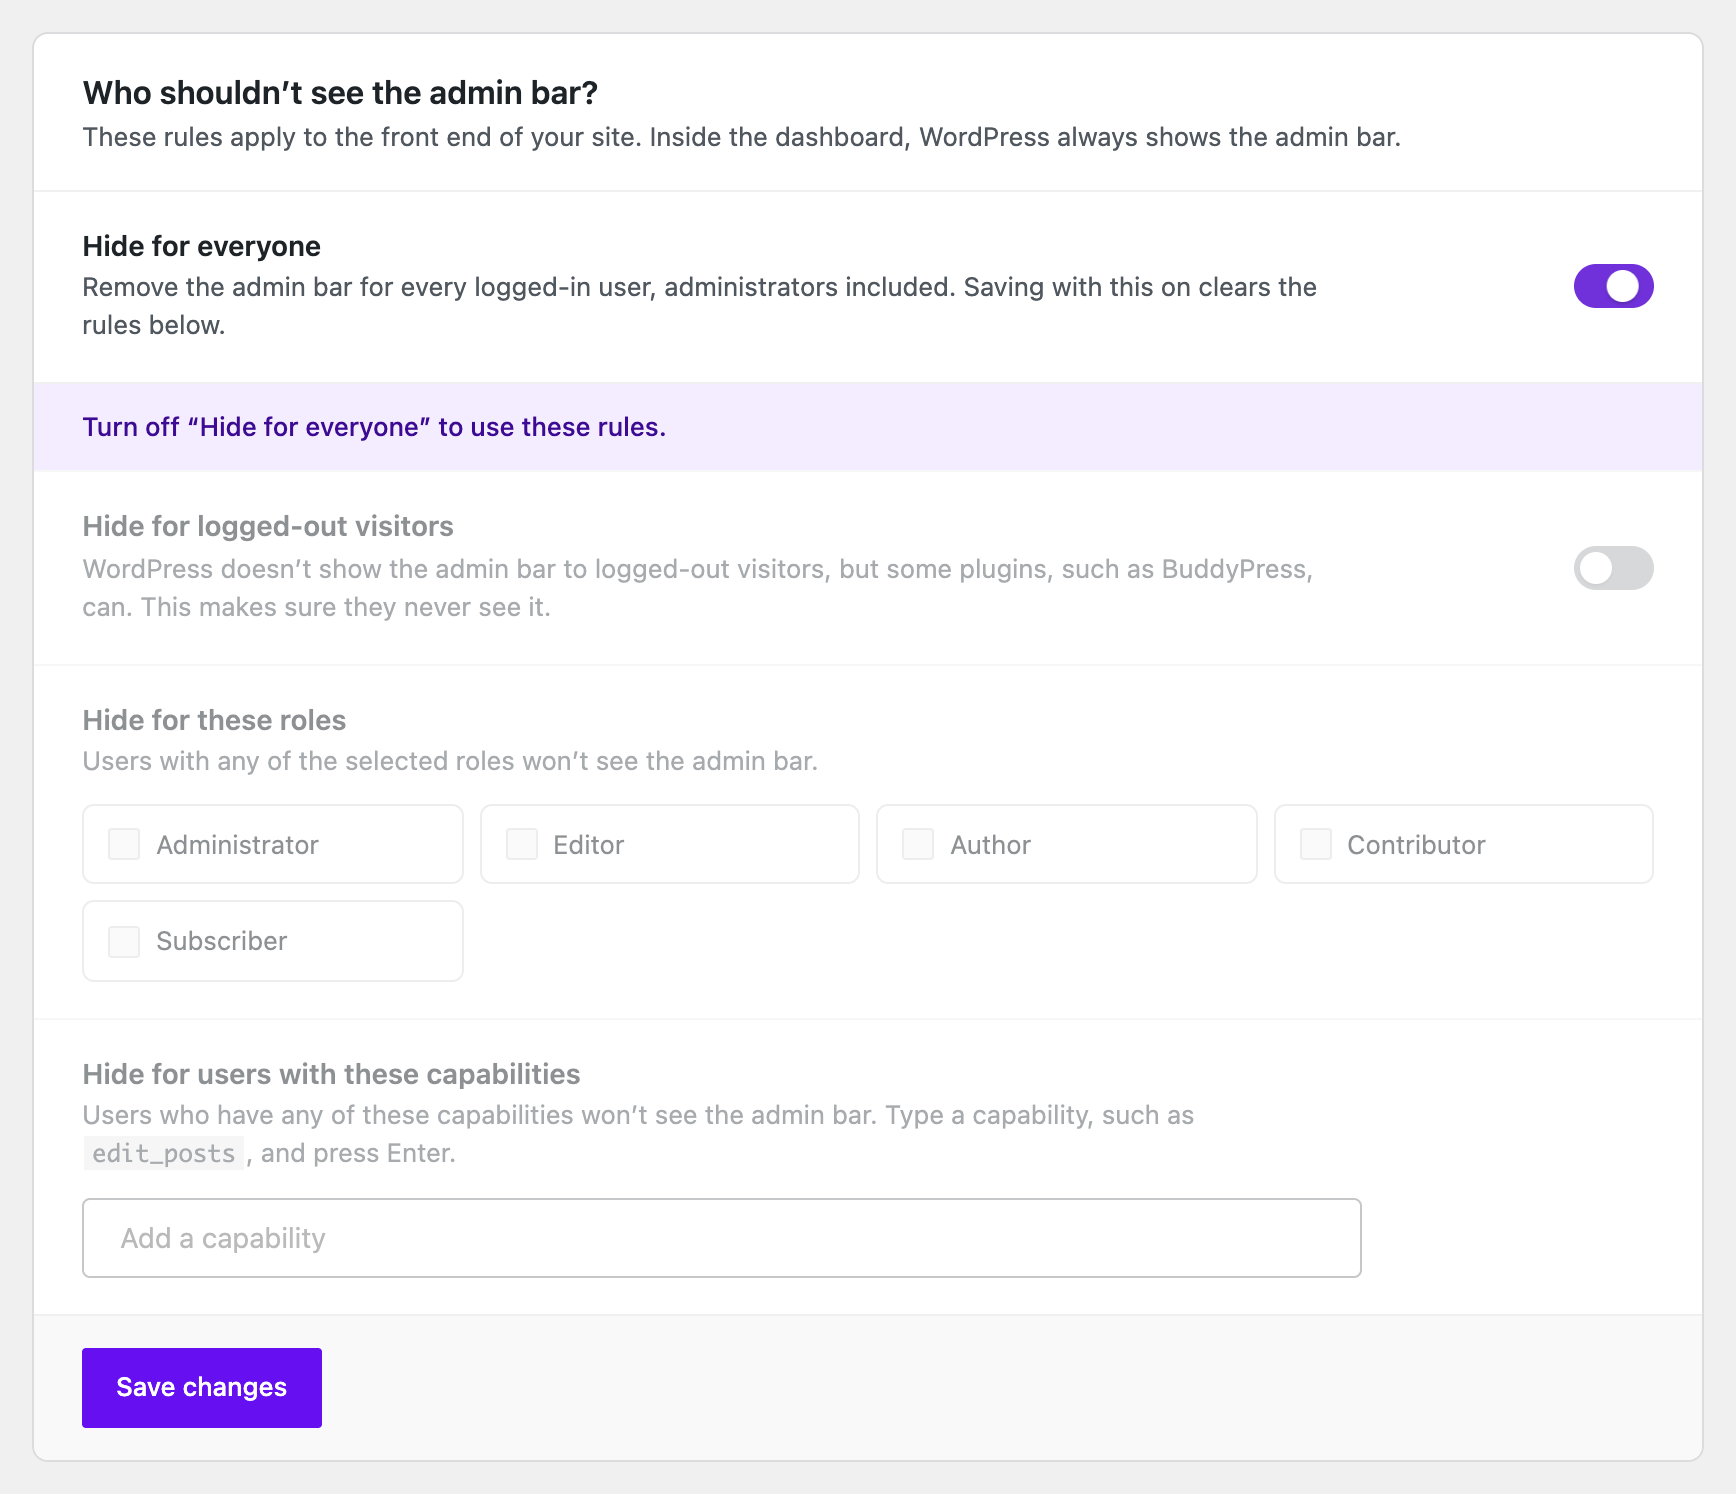
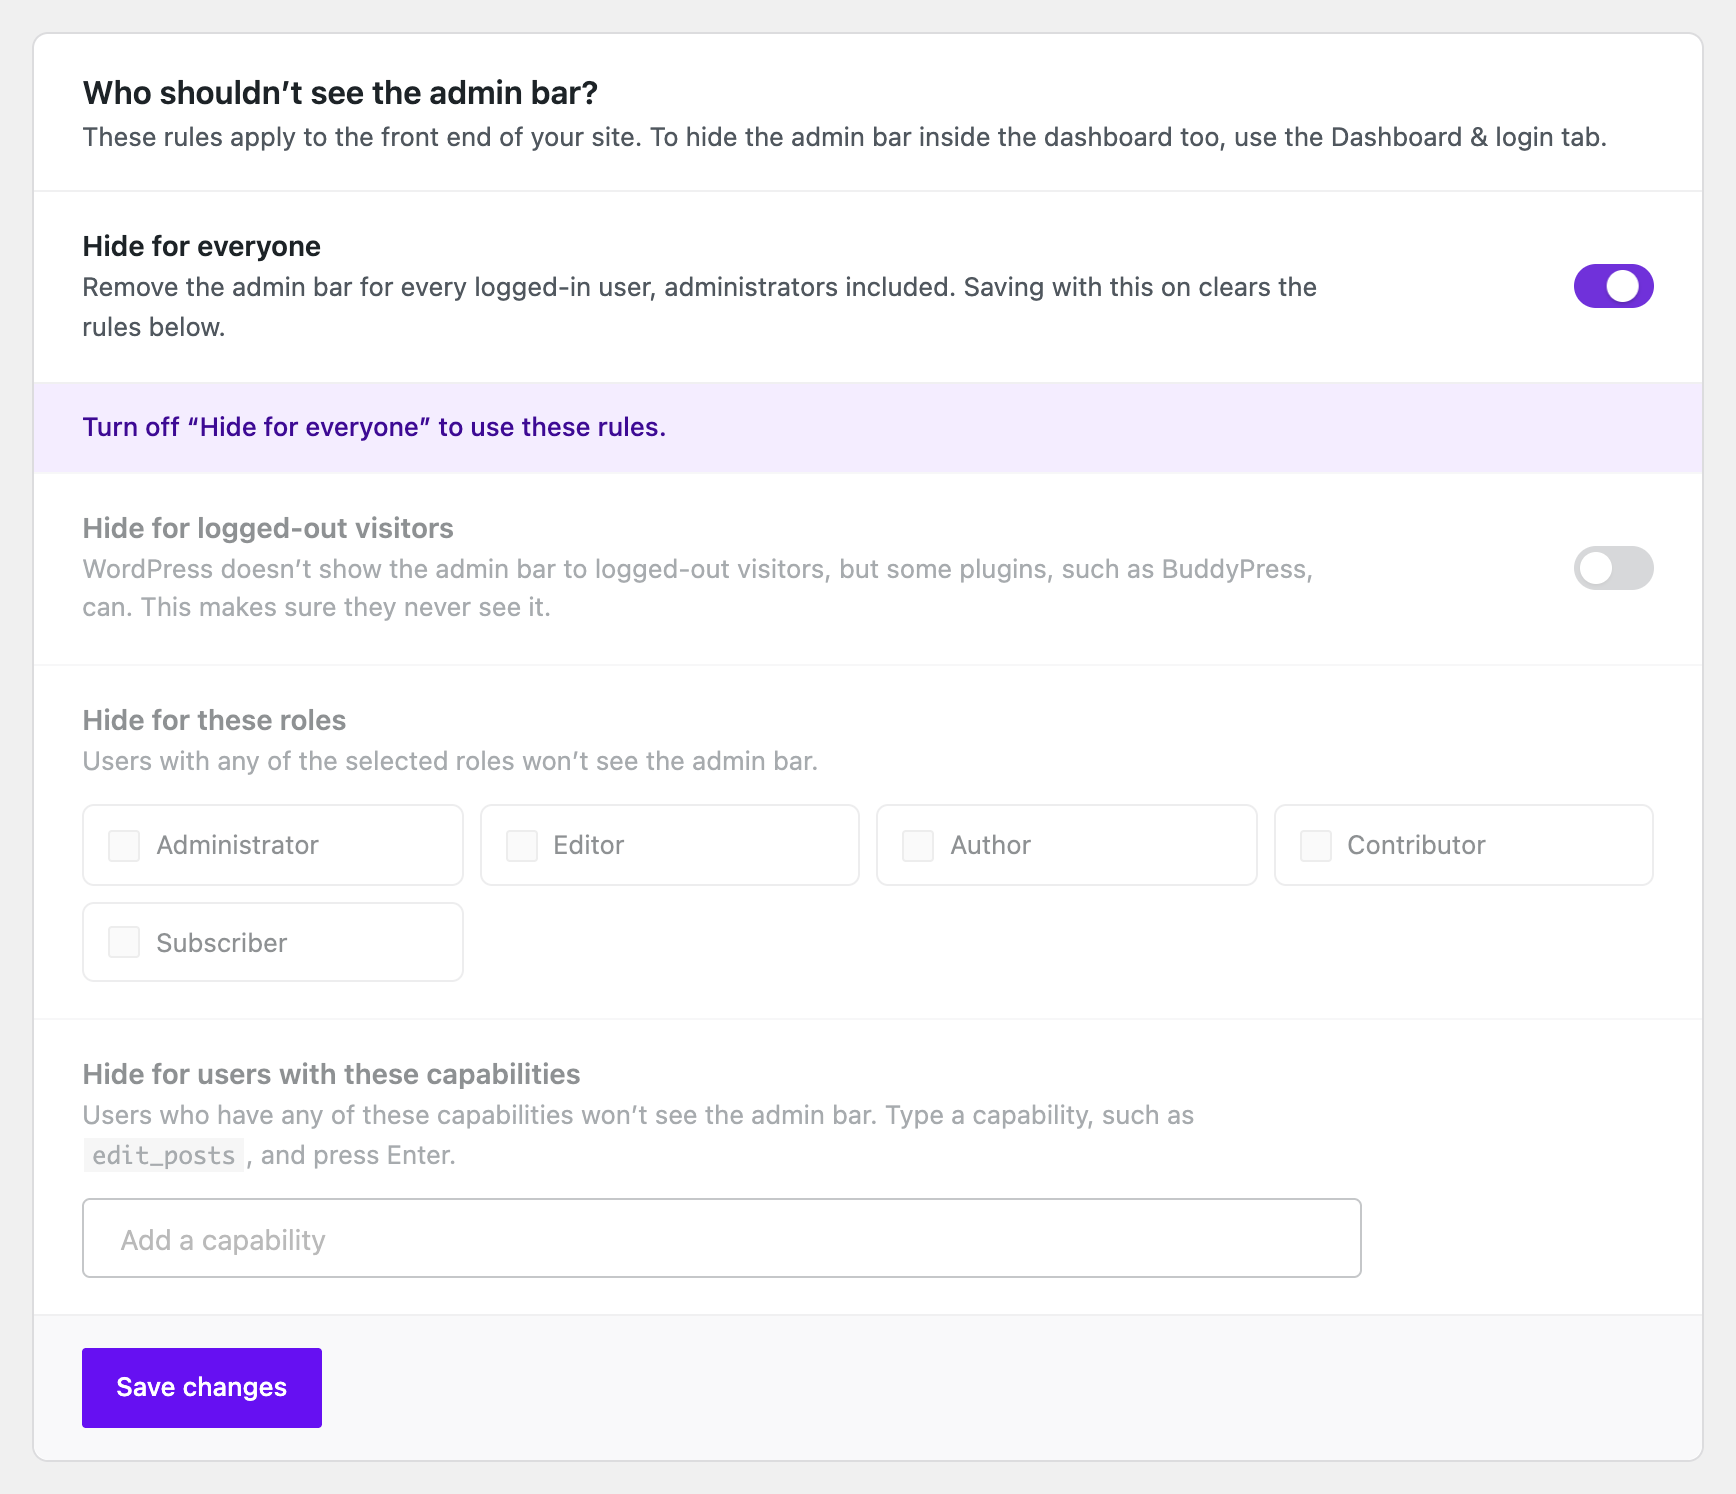
Admin bar tab: point to the new tab for hiding the bar in the dashboard
Text-only change. The card used to say WordPress always shows the
admin bar inside the dashboard, which is no longer the whole story.
POT and screenshots 1 and 2 updated to match.

diff --git a/admin/partials/hide-admin-bar-based-on-user-roles-admin-display.php b/admin/partials/hide-admin-bar-based-on-user-roles-admin-display.php
@@ -46,7 +46,7 @@ if ( ! defined( 'ABSPATH' ) ) {
 			<form id="hab-settings-form" class="hab-card" novalidate>
 				<div class="hab-card-header">
 					<h2><?php esc_html_e( 'Who shouldn’t see the admin bar?', 'hide-admin-bar-based-on-user-roles' ); ?></h2>
-					<p><?php esc_html_e( 'These rules apply to the front end of your site. Inside the dashboard, WordPress always shows the admin bar.', 'hide-admin-bar-based-on-user-roles' ); ?></p>
+					<p><?php esc_html_e( 'These rules apply to the front end of your site. To hide the admin bar inside the dashboard too, use the Dashboard & login tab.', 'hide-admin-bar-based-on-user-roles' ); ?></p>
 				</div>
 
 				<div class="hab-setting">
